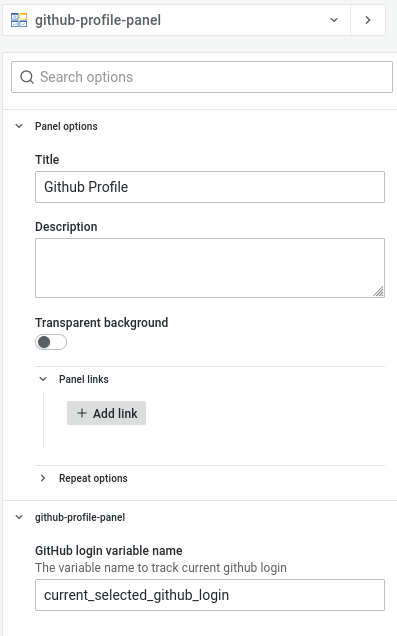
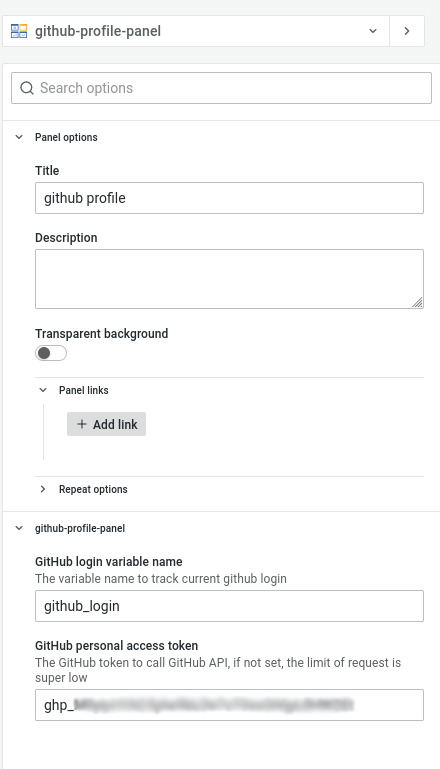
Add the github token option description in README

diff --git a/README.md b/README.md
@@ -2,7 +2,6 @@
 
 ![profile_panel](imgs/profile_panel.png)
 
-
 ## What is GitHub Profile Panel Plugin?
 
 A simple panel plugin to display developer's GitHub profile. Set up a variable to monitor on github login, then the panel will display developer's login, name, joined date, bio and other basic info.
@@ -11,9 +10,7 @@ Parts of the code and figures are yanked from [Rondoo - GitHub user search app ]
 
 ## Getting started
 
-Set up the `GitHub login variable name` in the panel's option, and update the variable anywhere you want the profile panel to display the according developer profile.
-
-
-
+- Set up the `GitHub login variable name` in the panel's option, and update the variable anywhere you want the profile panel to display the according developer profile.
+- Set up the GitHub token(a [personal access token](https://docs.github.com/en/authentication/keeping-your-account-and-data-secure/creating-a-personal-access-token)) which is used to call [GitHub API](https://docs.github.com/en/rest). You can leave it blank for testing, but the rate limit would be very low(see more details [here](https://docs.github.com/en/developers/apps/building-github-apps/rate-limits-for-github-apps))
 
 ![setup_monitor_var](imgs/setup_confs.png)
